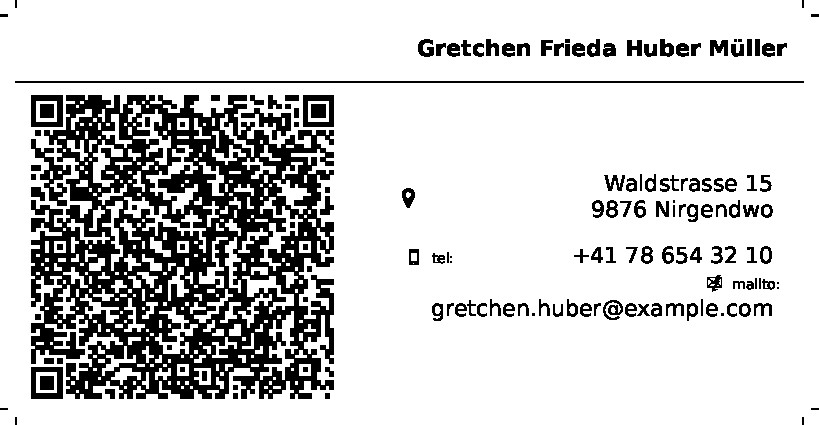
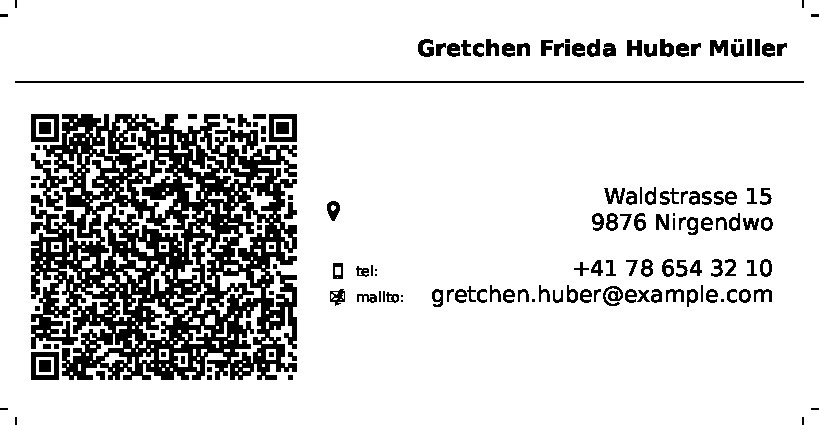
textwidth in example updated

diff --git a/examples/special-papersize.tex b/examples/special-papersize.tex
@@ -1,6 +1,8 @@
 \documentclass[paperheight=5.4cm,paperwidth=10.4cm,
                contentheight=5cm,contentwidth=10cm,
-               cutdist=2]
+               cutdist=2,
+               textwidth=0.6,
+               qrwidth=.35]
                {businesscard-qrcode}
 
 \givennames{Gretchen\ Frieda}
